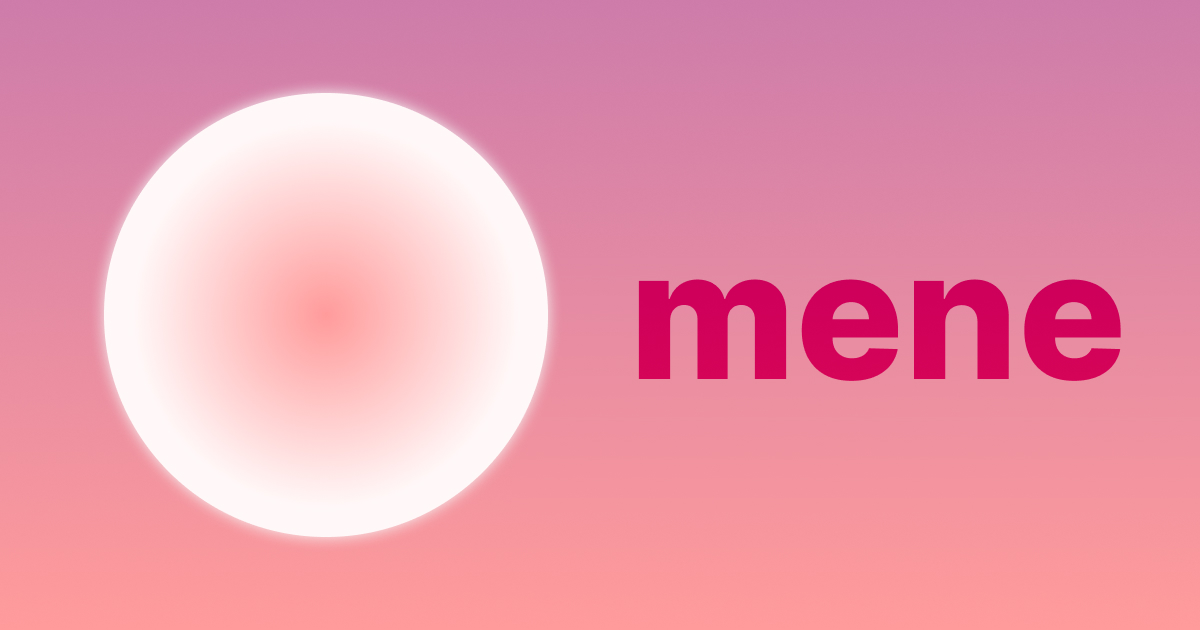
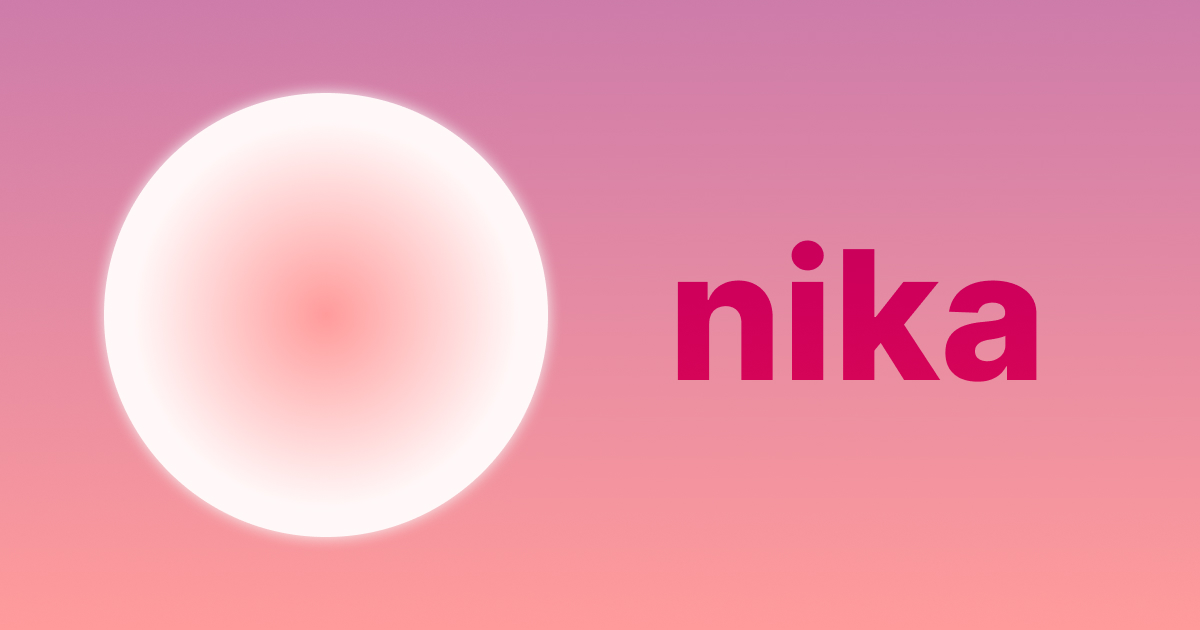
Rebrand to nika

Changed region(s): [[0.5242, 0.3619, 0.9558, 0.6032], [0.8017, 0.4222, 0.8325, 0.4524]]

diff --git a/index.html b/index.html
@@ -7,18 +7,18 @@
       name="viewport"
       content="width=device-width, initial-scale=1, viewport-fit=cover"
     />
-    <title>mene</title>
-    <meta name="apple-mobile-web-app-title" content="mene" />
+    <title>nika</title>
+    <meta name="apple-mobile-web-app-title" content="nika" />
     <meta name="description" content="Track your period and be healthy" />
     <!-- OG -->
-    <meta property="og:url" content="https://t-damer.github.io/mene-tracker" />
+    <meta property="og:url" content="https://t-damer.github.io/nika" />
     <meta property="og:type" content="website" />
-    <meta property="og:site_name" content="mene" />
+    <meta property="og:site_name" content="nika" />
     <meta
       property="og:image"
-      content="https://t-damer.github.io/mene-tracker/open-graph.jpg"
+      content="https://t-damer.github.io/nika/open-graph.jpg"
     />
-    <meta property="og:title" content="mene" />
+    <meta property="og:title" content="nika" />
     <meta
       property="og:description"
       content="Track your period and be healthy"
@@ -26,11 +26,8 @@
     <meta property="og:image:width" content="1200" />
     <meta property="og:image:height" content="630" />
     <meta name="twitter:card" content="summary_large_image" />
-    <meta
-      property="twitter:url"
-      content="https://t-damer.github.io/mene-tracker"
-    />
-    <meta name="twitter:title" content="mene" />
+    <meta property="twitter:url" content="https://t-damer.github.io/nika" />
+    <meta name="twitter:title" content="nika" />
     <meta
       name="twitter:description"
       content="Track your period and be healthy"
@@ -38,7 +35,7 @@
     <meta name="twitter:site" content="@True_Damer" />
     <meta
       name="twitter:image"
-      content="https://t-damer.github.io/mene/open-graph.jpg"
+      content="https://t-damer.github.io/nika/open-graph.jpg"
     />
     <meta name="twitter:creator" content="@True_Damer" />
 
@@ -56,7 +53,7 @@
       sizes="180x180"
       href="/favicon/apple-touch-icon.png"
     />
-    <meta name="apple-mobile-web-app-title" content="mene" />
+    <meta name="apple-mobile-web-app-title" content="nika" />
     <link rel="manifest" href="/favicon/site.webmanifest" />
 
     <!-- Fonts -->

diff --git a/src/lib/storage.ts b/src/lib/storage.ts
@@ -1,7 +1,7 @@
 import { User } from '../types'
 
-const USER_DATA_KEY = 'meneUserData'
-const CYCLE_DATA_KEY = 'meneCycleData'
+const userDataKey = 'user-data'
+const CYCLE_DATA_KEY = 'cycle-data'
 
 export const defaultUser: User = {
   name: '',
@@ -32,7 +32,7 @@ export const defaultUser: User = {
 
 export const saveUserData = (userData: User): void => {
   try {
-    localStorage.setItem(USER_DATA_KEY, JSON.stringify(userData))
+    localStorage.setItem(userDataKey, JSON.stringify(userData))
   } catch (error) {
     console.error('Error saving user data:', error)
   }
@@ -40,7 +40,7 @@ export const saveUserData = (userData: User): void => {
 
 export const loadUserData = (): User => {
   try {
-    const savedData = localStorage.getItem(USER_DATA_KEY)
+    const savedData = localStorage.getItem(userDataKey)
     if (savedData) {
       return { ...defaultUser, ...JSON.parse(savedData) }
     }
@@ -72,7 +72,7 @@ export const loadCycleData = (): any => {
 
 export const clearAllData = (): void => {
   try {
-    localStorage.removeItem(USER_DATA_KEY)
+    localStorage.removeItem(userDataKey)
     localStorage.removeItem(CYCLE_DATA_KEY)
   } catch (error) {
     console.error('Error clearing data:', error)

diff --git a/src/pages/not-found.tsx b/src/pages/not-found.tsx
@@ -9,7 +9,7 @@ export default function NotFound() {
 
   return (
     <div className="min-h-screen w-full flex flex-col items-center justify-center bg-background">
-      <h1 className="text-4xl font-bold gradient-text mb-8">mene</h1>
+      <h1 className="text-4xl font-bold gradient-text mb-8">nika</h1>
       <Card className="w-full max-w-md mx-4 shadow-lg border">
         <CardContent className="pt-6 flex flex-col items-center text-center">
           <div className="rounded-full bg-primary bg-opacity-10 p-3 mb-4">

diff --git a/src/pages/log.tsx b/src/pages/log.tsx
@@ -151,7 +151,7 @@ export default function Log() {
                         key={`flowIntensity-${i}`}
                       >
                         <img
-                          src={`/mene-tracker/img/flowIntensity/${i}.png`}
+                          src={`/nika/img/flowIntensity/${i}.png`}
                           onClick={() => setFlowIntensity(i)}
                           className={cn(
                             'transition-transform h-24 w-12  sm:w-16 sm:h-32 cursor-pointer',

diff --git a/vite.config.ts b/vite.config.ts
@@ -7,7 +7,7 @@ import tsconfigPaths from 'vite-tsconfig-paths'
 
 export default defineConfig({
   plugins: [react(), runtimeErrorOverlay(), tsconfigPaths()],
-  base: '/mene-tracker/',
+  base: '/nika/',
   resolve: {
     alias: {
       '@': path.resolve(import.meta.dirname, 'src'),
